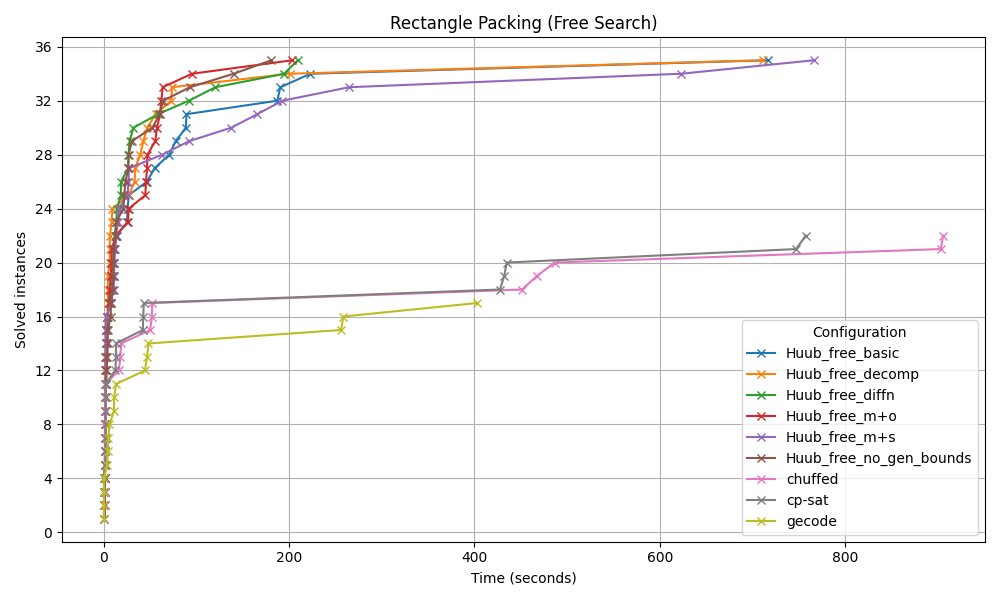
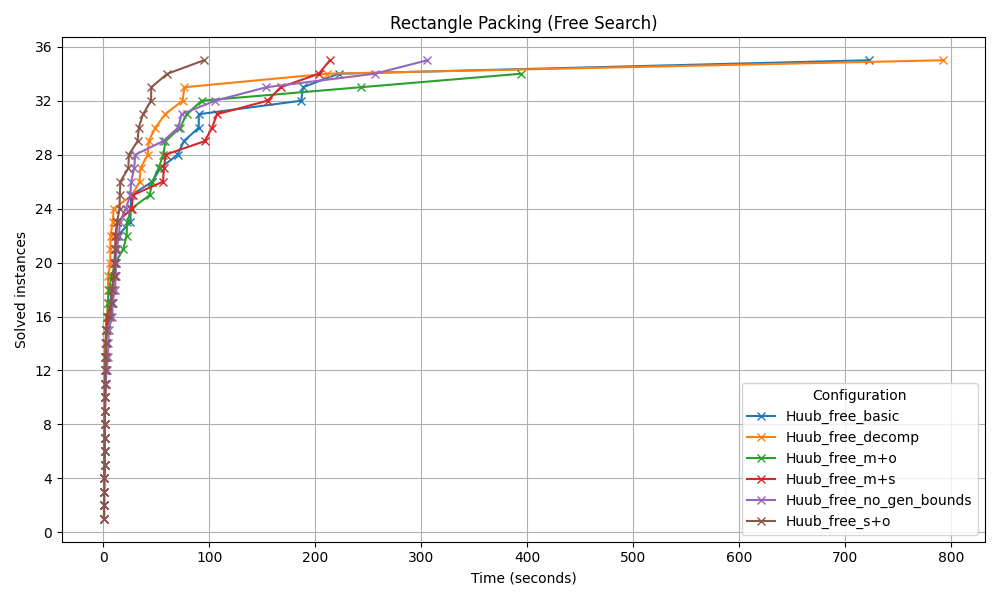
commented configs

diff --git a/run_benchmarks_filter.py b/run_benchmarks_filter.py
@@ -12,27 +12,27 @@ schedule(
     output_dir=pathlib.Path("./results_optimized_new/results_filter"),
     timeout=timedelta(minutes=20),
     configurations=[
-        Configuration(name="Huub_user_basic", solver=minizinc.Solver.load(pathlib.Path('./huub_basic/share/minizinc/solvers/huub.msc'))),
-        Configuration(name="Huub_vsids_basic", solver=minizinc.Solver.load(pathlib.Path('./huub_basic/share/minizinc/solvers/huub.msc')), other_flags={"--vsids-only": True, "--restart": "true"}),
-        Configuration(name="Huub_free_basic", solver=minizinc.Solver.load(pathlib.Path('./huub_basic/share/minizinc/solvers/huub.msc')), free_search=True ),
-        Configuration(name="Huub_user_no_gen_bounds", solver=minizinc.Solver.load(pathlib.Path('./huub_no_gen_bounds/share/minizinc/solvers/huub.msc'))),
-        Configuration(name="Huub_vsids_no_gen_bounds", solver=minizinc.Solver.load(pathlib.Path('./huub_no_gen_bounds/share/minizinc/solvers/huub.msc')), other_flags={"--vsids-only": True, "--restart": "true"}),
-        Configuration(name="Huub_free_no_gen_bounds", solver=minizinc.Solver.load(pathlib.Path('./huub_no_gen_bounds/share/minizinc/solvers/huub_no_gen_bounds.msc')), free_search=True ),
+        # Configuration(name="Huub_user_basic", solver=minizinc.Solver.load(pathlib.Path('./huub_basic/share/minizinc/solvers/huub.msc'))),
+        # Configuration(name="Huub_vsids_basic", solver=minizinc.Solver.load(pathlib.Path('./huub_basic/share/minizinc/solvers/huub.msc')), other_flags={"--vsids-only": True, "--restart": "true"}),
+        # Configuration(name="Huub_free_basic", solver=minizinc.Solver.load(pathlib.Path('./huub_basic/share/minizinc/solvers/huub.msc')), free_search=True ),
+        # Configuration(name="Huub_user_no_gen_bounds", solver=minizinc.Solver.load(pathlib.Path('./huub_no_gen_bounds/share/minizinc/solvers/huub.msc'))),
+        # Configuration(name="Huub_vsids_no_gen_bounds", solver=minizinc.Solver.load(pathlib.Path('./huub_no_gen_bounds/share/minizinc/solvers/huub.msc')), other_flags={"--vsids-only": True, "--restart": "true"}),
+        # Configuration(name="Huub_free_no_gen_bounds", solver=minizinc.Solver.load(pathlib.Path('./huub_no_gen_bounds/share/minizinc/solvers/huub_no_gen_bounds.msc')), free_search=True ),
         Configuration(name="Huub_user_m+s", solver=minizinc.Solver.load(pathlib.Path('./huub_m+s/share/minizinc/solvers/huub.msc'))),
         Configuration(name="Huub_vsids_m+s", solver=minizinc.Solver.load(pathlib.Path('./huub_m+s/share/minizinc/solvers/huub.msc')), other_flags={"--vsids-only": True, "--restart": "true"}),
         Configuration(name="Huub_free_m+s", solver=minizinc.Solver.load(pathlib.Path('./huub_m+s/share/minizinc/solvers/huub.msc')), free_search=True ),
-        Configuration(name="Huub_user_m+o", solver=minizinc.Solver.load(pathlib.Path('./huub_m+o/share/minizinc/solvers/huub.msc'))),
-        Configuration(name="Huub_vsids_m+o", solver=minizinc.Solver.load(pathlib.Path('./huub_m+o/share/minizinc/solvers/huub.msc')), other_flags={"--vsids-only": True, "--restart": "true"}),
-        Configuration(name="Huub_free_m+o", solver=minizinc.Solver.load(pathlib.Path('./huub_m+o/share/minizinc/solvers/huub.msc')), free_search=True ),
-        Configuration(name="Huub_user_s+o", solver=minizinc.Solver.load(pathlib.Path('./huub_s+o/share/minizinc/solvers/huub.msc'))),
-        Configuration(name="Huub_vsids_s+o", solver=minizinc.Solver.load(pathlib.Path('./huub_s+o/share/minizinc/solvers/huub.msc')), other_flags={"--vsids-only": True, "--restart": "true"}),
-        Configuration(name="Huub_free_s+o", solver=minizinc.Solver.load(pathlib.Path('./huub_s+o/share/minizinc/solvers/huub.msc')), free_search=True ),
-        Configuration(name="Huub_user_basic", solver=minizinc.Solver.load(pathlib.Path('./huub_basic/share/minizinc/solvers/huub.msc'))),
-        Configuration(name="Huub_vsids_basic", solver=minizinc.Solver.load(pathlib.Path('./huub_basic/share/minizinc/solvers/huub.msc')), other_flags={"--vsids-only": True, "--restart": "true"}),
-        Configuration(name="Huub_free_basic", solver=minizinc.Solver.load(pathlib.Path('./huub_basic/share/minizinc/solvers/huub.msc')), free_search=True),
-        Configuration(name="Huub_user_decomp", solver=minizinc.Solver.load(pathlib.Path('./huub_decomp/share/minizinc/solvers/huub.msc'))),
-        Configuration(name="Huub_vsids_decomp", solver=minizinc.Solver.load(pathlib.Path('./huub_decomp/share/minizinc/solvers/huub.msc')), other_flags={"--vsids-only": True, "--restart": "true"} ),
-        Configuration(name="Huub_free_decomp", solver=minizinc.Solver.load(pathlib.Path('./huub_decomp/share/minizinc/solvers/huub.msc')), free_search=True ),
+        # Configuration(name="Huub_user_m+o", solver=minizinc.Solver.load(pathlib.Path('./huub_m+o/share/minizinc/solvers/huub.msc'))),
+        # Configuration(name="Huub_vsids_m+o", solver=minizinc.Solver.load(pathlib.Path('./huub_m+o/share/minizinc/solvers/huub.msc')), other_flags={"--vsids-only": True, "--restart": "true"}),
+        # Configuration(name="Huub_free_m+o", solver=minizinc.Solver.load(pathlib.Path('./huub_m+o/share/minizinc/solvers/huub.msc')), free_search=True ),
+        # Configuration(name="Huub_user_s+o", solver=minizinc.Solver.load(pathlib.Path('./huub_s+o/share/minizinc/solvers/huub.msc'))),
+        # Configuration(name="Huub_vsids_s+o", solver=minizinc.Solver.load(pathlib.Path('./huub_s+o/share/minizinc/solvers/huub.msc')), other_flags={"--vsids-only": True, "--restart": "true"}),
+        # Configuration(name="Huub_free_s+o", solver=minizinc.Solver.load(pathlib.Path('./huub_s+o/share/minizinc/solvers/huub.msc')), free_search=True ),
+        # Configuration(name="Huub_user_basic", solver=minizinc.Solver.load(pathlib.Path('./huub_basic/share/minizinc/solvers/huub.msc'))),
+        # Configuration(name="Huub_vsids_basic", solver=minizinc.Solver.load(pathlib.Path('./huub_basic/share/minizinc/solvers/huub.msc')), other_flags={"--vsids-only": True, "--restart": "true"}),
+        # Configuration(name="Huub_free_basic", solver=minizinc.Solver.load(pathlib.Path('./huub_basic/share/minizinc/solvers/huub.msc')), free_search=True),
+        # Configuration(name="Huub_user_decomp", solver=minizinc.Solver.load(pathlib.Path('./huub_decomp/share/minizinc/solvers/huub.msc'))),
+        # Configuration(name="Huub_vsids_decomp", solver=minizinc.Solver.load(pathlib.Path('./huub_decomp/share/minizinc/solvers/huub.msc')), other_flags={"--vsids-only": True, "--restart": "true"} ),
+        # Configuration(name="Huub_free_decomp", solver=minizinc.Solver.load(pathlib.Path('./huub_decomp/share/minizinc/solvers/huub.msc')), free_search=True ),
     ],
     nodelist=["critical001"],
     #partition=["comp"],

diff --git a/run_benchmarks_rect.py b/run_benchmarks_rect.py
@@ -12,27 +12,27 @@ schedule(
     output_dir=pathlib.Path("./results_optimized_new/results_rect"),
     timeout=timedelta(minutes=20),
     configurations=[
-        Configuration(name="Huub_user_basic", solver=minizinc.Solver.load(pathlib.Path('./huub_basic/share/minizinc/solvers/huub.msc'))),
-        Configuration(name="Huub_vsids_basic", solver=minizinc.Solver.load(pathlib.Path('./huub_basic/share/minizinc/solvers/huub.msc')), other_flags={"--vsids-only": True, "--restart": "true"}),
-        Configuration(name="Huub_free_basic", solver=minizinc.Solver.load(pathlib.Path('./huub_basic/share/minizinc/solvers/huub.msc')), free_search=True ),
-        Configuration(name="Huub_user_no_gen_bounds", solver=minizinc.Solver.load(pathlib.Path('./huub_no_gen_bounds/share/minizinc/solvers/huub.msc'))),
-        Configuration(name="Huub_vsids_no_gen_bounds", solver=minizinc.Solver.load(pathlib.Path('./huub_no_gen_bounds/share/minizinc/solvers/huub.msc')), other_flags={"--vsids-only": True, "--restart": "true"}),
-        Configuration(name="Huub_free_no_gen_bounds", solver=minizinc.Solver.load(pathlib.Path('./huub_no_gen_bounds/share/minizinc/solvers/huub_no_gen_bounds.msc')), free_search=True ),
+        # Configuration(name="Huub_user_basic", solver=minizinc.Solver.load(pathlib.Path('./huub_basic/share/minizinc/solvers/huub.msc'))),
+        # Configuration(name="Huub_vsids_basic", solver=minizinc.Solver.load(pathlib.Path('./huub_basic/share/minizinc/solvers/huub.msc')), other_flags={"--vsids-only": True, "--restart": "true"}),
+        # Configuration(name="Huub_free_basic", solver=minizinc.Solver.load(pathlib.Path('./huub_basic/share/minizinc/solvers/huub.msc')), free_search=True ),
+        # Configuration(name="Huub_user_no_gen_bounds", solver=minizinc.Solver.load(pathlib.Path('./huub_no_gen_bounds/share/minizinc/solvers/huub.msc'))),
+        # Configuration(name="Huub_vsids_no_gen_bounds", solver=minizinc.Solver.load(pathlib.Path('./huub_no_gen_bounds/share/minizinc/solvers/huub.msc')), other_flags={"--vsids-only": True, "--restart": "true"}),
+        # Configuration(name="Huub_free_no_gen_bounds", solver=minizinc.Solver.load(pathlib.Path('./huub_no_gen_bounds/share/minizinc/solvers/huub_no_gen_bounds.msc')), free_search=True ),
         Configuration(name="Huub_user_m+s", solver=minizinc.Solver.load(pathlib.Path('./huub_m+s/share/minizinc/solvers/huub.msc'))),
         Configuration(name="Huub_vsids_m+s", solver=minizinc.Solver.load(pathlib.Path('./huub_m+s/share/minizinc/solvers/huub.msc')), other_flags={"--vsids-only": True, "--restart": "true"}),
         Configuration(name="Huub_free_m+s", solver=minizinc.Solver.load(pathlib.Path('./huub_m+s/share/minizinc/solvers/huub.msc')), free_search=True ),
-        Configuration(name="Huub_user_m+o", solver=minizinc.Solver.load(pathlib.Path('./huub_m+o/share/minizinc/solvers/huub.msc'))),
-        Configuration(name="Huub_vsids_m+o", solver=minizinc.Solver.load(pathlib.Path('./huub_m+o/share/minizinc/solvers/huub.msc')), other_flags={"--vsids-only": True, "--restart": "true"}),
-        Configuration(name="Huub_free_m+o", solver=minizinc.Solver.load(pathlib.Path('./huub_m+o/share/minizinc/solvers/huub.msc')), free_search=True ),
-        Configuration(name="Huub_user_s+o", solver=minizinc.Solver.load(pathlib.Path('./huub_s+o/share/minizinc/solvers/huub.msc'))),
-        Configuration(name="Huub_vsids_s+o", solver=minizinc.Solver.load(pathlib.Path('./huub_s+o/share/minizinc/solvers/huub.msc')), other_flags={"--vsids-only": True, "--restart": "true"}),
-        Configuration(name="Huub_free_s+o", solver=minizinc.Solver.load(pathlib.Path('./huub_s+o/share/minizinc/solvers/huub.msc')), free_search=True ),
-        Configuration(name="Huub_user_basic", solver=minizinc.Solver.load(pathlib.Path('./huub_basic/share/minizinc/solvers/huub.msc'))),
-        Configuration(name="Huub_vsids_basic", solver=minizinc.Solver.load(pathlib.Path('./huub_basic/share/minizinc/solvers/huub.msc')), other_flags={"--vsids-only": True, "--restart": "true"}),
-        Configuration(name="Huub_free_basic", solver=minizinc.Solver.load(pathlib.Path('./huub_basic/share/minizinc/solvers/huub.msc')), free_search=True),
-        Configuration(name="Huub_user_decomp", solver=minizinc.Solver.load(pathlib.Path('./huub_decomp/share/minizinc/solvers/huub.msc'))),
-        Configuration(name="Huub_vsids_decomp", solver=minizinc.Solver.load(pathlib.Path('./huub_decomp/share/minizinc/solvers/huub.msc')), other_flags={"--vsids-only": True, "--restart": "true"} ),
-        Configuration(name="Huub_free_decomp", solver=minizinc.Solver.load(pathlib.Path('./huub_decomp/share/minizinc/solvers/huub.msc')), free_search=True ),
+        # Configuration(name="Huub_user_m+o", solver=minizinc.Solver.load(pathlib.Path('./huub_m+o/share/minizinc/solvers/huub.msc'))),
+        # Configuration(name="Huub_vsids_m+o", solver=minizinc.Solver.load(pathlib.Path('./huub_m+o/share/minizinc/solvers/huub.msc')), other_flags={"--vsids-only": True, "--restart": "true"}),
+        # Configuration(name="Huub_free_m+o", solver=minizinc.Solver.load(pathlib.Path('./huub_m+o/share/minizinc/solvers/huub.msc')), free_search=True ),
+        # Configuration(name="Huub_user_s+o", solver=minizinc.Solver.load(pathlib.Path('./huub_s+o/share/minizinc/solvers/huub.msc'))),
+        # Configuration(name="Huub_vsids_s+o", solver=minizinc.Solver.load(pathlib.Path('./huub_s+o/share/minizinc/solvers/huub.msc')), other_flags={"--vsids-only": True, "--restart": "true"}),
+        # Configuration(name="Huub_free_s+o", solver=minizinc.Solver.load(pathlib.Path('./huub_s+o/share/minizinc/solvers/huub.msc')), free_search=True ),
+        # Configuration(name="Huub_user_basic", solver=minizinc.Solver.load(pathlib.Path('./huub_basic/share/minizinc/solvers/huub.msc'))),
+        # Configuration(name="Huub_vsids_basic", solver=minizinc.Solver.load(pathlib.Path('./huub_basic/share/minizinc/solvers/huub.msc')), other_flags={"--vsids-only": True, "--restart": "true"}),
+        # Configuration(name="Huub_free_basic", solver=minizinc.Solver.load(pathlib.Path('./huub_basic/share/minizinc/solvers/huub.msc')), free_search=True),
+        # Configuration(name="Huub_user_decomp", solver=minizinc.Solver.load(pathlib.Path('./huub_decomp/share/minizinc/solvers/huub.msc'))),
+        # Configuration(name="Huub_vsids_decomp", solver=minizinc.Solver.load(pathlib.Path('./huub_decomp/share/minizinc/solvers/huub.msc')), other_flags={"--vsids-only": True, "--restart": "true"} ),
+        # Configuration(name="Huub_free_decomp", solver=minizinc.Solver.load(pathlib.Path('./huub_decomp/share/minizinc/solvers/huub.msc')), free_search=True ),
     ],
     nodelist=["critical001"],
     #partition=["comp"],

diff --git a/run_benchmarks_prod_shelf.py b/run_benchmarks_prod_shelf.py
@@ -1,4 +1,4 @@
-# 1. Create an instance list: mzn-bench collect-instances minizinc-benchmarks > instances.csv
+#  1. Create an instance list: mzn-bench collect-instances minizinc-benchmarks > instances.csv
 # 2. Run the script: python3 run_benchmark.py
 # 3. Collect the statistics: mzn-bench collect-statistics results result.csv
 # 4. Summarize and report status: mzn-bench report-status --avg solveTime result.csv
@@ -12,20 +12,20 @@ schedule(
     output_dir=pathlib.Path("./results_optimized_new/results_prod_new"),
     timeout=timedelta(minutes=20),
     configurations=[
-        Configuration(name="Huub_vsids_basic", solver=minizinc.Solver.load(pathlib.Path('./huub_basic/share/minizinc/solvers/huub.msc')), other_flags={"--vsids-only": True, "--restart": "true"}),
-        Configuration(name="Huub_free_basic", solver=minizinc.Solver.load(pathlib.Path('./huub_basic/share/minizinc/solvers/huub.msc')), free_search=True ),
-        Configuration(name="Huub_vsids_no_gen_bounds", solver=minizinc.Solver.load(pathlib.Path('./huub_no_gen_bounds/share/minizinc/solvers/huub.msc')), other_flags={"--vsids-only": True, "--restart": "true"}),
-        Configuration(name="Huub_free_no_gen_bounds", solver=minizinc.Solver.load(pathlib.Path('./huub_no_gen_bounds/share/minizinc/solvers/huub_no_gen_bounds.msc')), free_search=True ),
+        # Configuration(name="Huub_vsids_basic", solver=minizinc.Solver.load(pathlib.Path('./huub_basic/share/minizinc/solvers/huub.msc')), other_flags={"--vsids-only": True, "--restart": "true"}),
+        # Configuration(name="Huub_free_basic", solver=minizinc.Solver.load(pathlib.Path('./huub_basic/share/minizinc/solvers/huub.msc')), free_search=True ),
+        # Configuration(name="Huub_vsids_no_gen_bounds", solver=minizinc.Solver.load(pathlib.Path('./huub_no_gen_bounds/share/minizinc/solvers/huub.msc')), other_flags={"--vsids-only": True, "--restart": "true"}),
+        # Configuration(name="Huub_free_no_gen_bounds", solver=minizinc.Solver.load(pathlib.Path('./huub_no_gen_bounds/share/minizinc/solvers/huub_no_gen_bounds.msc')), free_search=True ),
         Configuration(name="Huub_vsids_m+s", solver=minizinc.Solver.load(pathlib.Path('./huub_m+s/share/minizinc/solvers/huub.msc')), other_flags={"--vsids-only": True, "--restart": "true"}),
         Configuration(name="Huub_free_m+s", solver=minizinc.Solver.load(pathlib.Path('./huub_m+s/share/minizinc/solvers/huub.msc')), free_search=True ),
-        Configuration(name="Huub_vsids_m+o", solver=minizinc.Solver.load(pathlib.Path('./huub_m+o/share/minizinc/solvers/huub.msc')), other_flags={"--vsids-only": True, "--restart": "true"}),
-        Configuration(name="Huub_free_m+o", solver=minizinc.Solver.load(pathlib.Path('./huub_m+o/share/minizinc/solvers/huub.msc')), free_search=True ),
-        Configuration(name="Huub_vsids_s+o", solver=minizinc.Solver.load(pathlib.Path('./huub_s+o/share/minizinc/solvers/huub.msc')), other_flags={"--vsids-only": True, "--restart": "true"}),
-        Configuration(name="Huub_free_s+o", solver=minizinc.Solver.load(pathlib.Path('./huub_s+o/share/minizinc/solvers/huub.msc')), free_search=True ),
-        Configuration(name="Huub_vsids_basic", solver=minizinc.Solver.load(pathlib.Path('./huub_basic/share/minizinc/solvers/huub.msc')), other_flags={"--vsids-only": True, "--restart": "true"}),
-        Configuration(name="Huub_free_basic", solver=minizinc.Solver.load(pathlib.Path('./huub_basic/share/minizinc/solvers/huub.msc')), free_search=True),
-        Configuration(name="Huub_vsids_decomp", solver=minizinc.Solver.load(pathlib.Path('./huub_decomp/share/minizinc/solvers/huub.msc')), other_flags={"--vsids-only": True, "--restart": "true"} ),
-        Configuration(name="Huub_free_decomp", solver=minizinc.Solver.load(pathlib.Path('./huub_decomp/share/minizinc/solvers/huub.msc')), free_search=True ),
+        # Configuration(name="Huub_vsids_m+o", solver=minizinc.Solver.load(pathlib.Path('./huub_m+o/share/minizinc/solvers/huub.msc')), other_flags={"--vsids-only": True, "--restart": "true"}),
+        # Configuration(name="Huub_free_m+o", solver=minizinc.Solver.load(pathlib.Path('./huub_m+o/share/minizinc/solvers/huub.msc')), free_search=True ),
+        # Configuration(name="Huub_vsids_s+o", solver=minizinc.Solver.load(pathlib.Path('./huub_s+o/share/minizinc/solvers/huub.msc')), other_flags={"--vsids-only": True, "--restart": "true"}),
+        # Configuration(name="Huub_free_s+o", solver=minizinc.Solver.load(pathlib.Path('./huub_s+o/share/minizinc/solvers/huub.msc')), free_search=True ),
+        # Configuration(name="Huub_vsids_basic", solver=minizinc.Solver.load(pathlib.Path('./huub_basic/share/minizinc/solvers/huub.msc')), other_flags={"--vsids-only": True, "--restart": "true"}),
+        # Configuration(name="Huub_free_basic", solver=minizinc.Solver.load(pathlib.Path('./huub_basic/share/minizinc/solvers/huub.msc')), free_search=True),
+        # Configuration(name="Huub_vsids_decomp", solver=minizinc.Solver.load(pathlib.Path('./huub_decomp/share/minizinc/solvers/huub.msc')), other_flags={"--vsids-only": True, "--restart": "true"} ),
+        # Configuration(name="Huub_free_decomp", solver=minizinc.Solver.load(pathlib.Path('./huub_decomp/share/minizinc/solvers/huub.msc')), free_search=True ),
     ],
     nodelist=["critical001"],
     #partition=["comp"],

diff --git a/run_benchmarks_container.py b/run_benchmarks_container.py
@@ -12,20 +12,20 @@ schedule(
     output_dir=pathlib.Path("./results_optimized_new/results_container"),
     timeout=timedelta(minutes=20),
     configurations=[
-        Configuration(name="Huub_vsids_basic", solver=minizinc.Solver.load(pathlib.Path('./huub_basic/share/minizinc/solvers/huub.msc')), other_flags={"--vsids-only": True, "--restart": "true"}),
-        Configuration(name="Huub_free_basic", solver=minizinc.Solver.load(pathlib.Path('./huub_basic/share/minizinc/solvers/huub.msc')), free_search=True ),
-        Configuration(name="Huub_vsids_no_gen_bounds", solver=minizinc.Solver.load(pathlib.Path('./huub_no_gen_bounds/share/minizinc/solvers/huub.msc')), other_flags={"--vsids-only": True, "--restart": "true"}),
-        Configuration(name="Huub_free_no_gen_bounds", solver=minizinc.Solver.load(pathlib.Path('./huub_no_gen_bounds/share/minizinc/solvers/huub_no_gen_bounds.msc')), free_search=True ),
+        # Configuration(name="Huub_vsids_basic", solver=minizinc.Solver.load(pathlib.Path('./huub_basic/share/minizinc/solvers/huub.msc')), other_flags={"--vsids-only": True, "--restart": "true"}),
+        # Configuration(name="Huub_free_basic", solver=minizinc.Solver.load(pathlib.Path('./huub_basic/share/minizinc/solvers/huub.msc')), free_search=True ),
+        # Configuration(name="Huub_vsids_no_gen_bounds", solver=minizinc.Solver.load(pathlib.Path('./huub_no_gen_bounds/share/minizinc/solvers/huub.msc')), other_flags={"--vsids-only": True, "--restart": "true"}),
+        # Configuration(name="Huub_free_no_gen_bounds", solver=minizinc.Solver.load(pathlib.Path('./huub_no_gen_bounds/share/minizinc/solvers/huub_no_gen_bounds.msc')), free_search=True ),
         Configuration(name="Huub_vsids_m+s", solver=minizinc.Solver.load(pathlib.Path('./huub_m+s/share/minizinc/solvers/huub.msc')), other_flags={"--vsids-only": True, "--restart": "true"}),
         Configuration(name="Huub_free_m+s", solver=minizinc.Solver.load(pathlib.Path('./huub_m+s/share/minizinc/solvers/huub.msc')), free_search=True ),
-        Configuration(name="Huub_vsids_m+o", solver=minizinc.Solver.load(pathlib.Path('./huub_m+o/share/minizinc/solvers/huub.msc')), other_flags={"--vsids-only": True, "--restart": "true"}),
-        Configuration(name="Huub_free_m+o", solver=minizinc.Solver.load(pathlib.Path('./huub_m+o/share/minizinc/solvers/huub.msc')), free_search=True ),
-        Configuration(name="Huub_vsids_s+o", solver=minizinc.Solver.load(pathlib.Path('./huub_s+o/share/minizinc/solvers/huub.msc')), other_flags={"--vsids-only": True, "--restart": "true"}),
-        Configuration(name="Huub_free_s+o", solver=minizinc.Solver.load(pathlib.Path('./huub_s+o/share/minizinc/solvers/huub.msc')), free_search=True ),
-        Configuration(name="Huub_vsids_basic", solver=minizinc.Solver.load(pathlib.Path('./huub_basic/share/minizinc/solvers/huub.msc')), other_flags={"--vsids-only": True, "--restart": "true"}),
-        Configuration(name="Huub_free_basic", solver=minizinc.Solver.load(pathlib.Path('./huub_basic/share/minizinc/solvers/huub.msc')), free_search=True),
-        Configuration(name="Huub_vsids_decomp", solver=minizinc.Solver.load(pathlib.Path('./huub_decomp/share/minizinc/solvers/huub.msc')), other_flags={"--vsids-only": True, "--restart": "true"} ),
-        Configuration(name="Huub_free_decomp", solver=minizinc.Solver.load(pathlib.Path('./huub_decomp/share/minizinc/solvers/huub.msc')), free_search=True ),
+        # Configuration(name="Huub_vsids_m+o", solver=minizinc.Solver.load(pathlib.Path('./huub_m+o/share/minizinc/solvers/huub.msc')), other_flags={"--vsids-only": True, "--restart": "true"}),
+        # Configuration(name="Huub_free_m+o", solver=minizinc.Solver.load(pathlib.Path('./huub_m+o/share/minizinc/solvers/huub.msc')), free_search=True ),
+        # Configuration(name="Huub_vsids_s+o", solver=minizinc.Solver.load(pathlib.Path('./huub_s+o/share/minizinc/solvers/huub.msc')), other_flags={"--vsids-only": True, "--restart": "true"}),
+        # Configuration(name="Huub_free_s+o", solver=minizinc.Solver.load(pathlib.Path('./huub_s+o/share/minizinc/solvers/huub.msc')), free_search=True ),
+        # Configuration(name="Huub_vsids_basic", solver=minizinc.Solver.load(pathlib.Path('./huub_basic/share/minizinc/solvers/huub.msc')), other_flags={"--vsids-only": True, "--restart": "true"}),
+        # Configuration(name="Huub_free_basic", solver=minizinc.Solver.load(pathlib.Path('./huub_basic/share/minizinc/solvers/huub.msc')), free_search=True),
+        # Configuration(name="Huub_vsids_decomp", solver=minizinc.Solver.load(pathlib.Path('./huub_decomp/share/minizinc/solvers/huub.msc')), other_flags={"--vsids-only": True, "--restart": "true"} ),
+        # Configuration(name="Huub_free_decomp", solver=minizinc.Solver.load(pathlib.Path('./huub_decomp/share/minizinc/solvers/huub.msc')), free_search=True ),
     ],
     nodelist=["critical001"],
     #partition=["comp"],

diff --git a/plots/plot_container.py b/plots/plot_container.py
@@ -4,56 +4,12 @@ import matplotlib
 import matplotlib.pyplot as plt
 import numpy as np
 
-# matplotlib.use('pgf')
-
-# Provided CSV data
-# data = "results_optimized/results_container_user.csv"
-# #data = "results_optimized/results_container_free.csv"
-#
-# # Read CSV into DataFrame
-# df = pd.read_csv(data)
-#
-#
-# # Filter for only rows with OPTIMAL_SOLUTION
-# df_opt = df[df["status"] == "SATISFIED"]
-#
-# # Create cactus plot comparing configurations
-# plt.figure(figsize=(10, 6))
-#
-# # Clean the data_file column to just the filename (e.g., 'cl01')
-# df_opt["data_file"] = df_opt["data_file"].apply(
-#     lambda x: x.split("/")[-1].split(".")[0]
-# )
-#
-#
-# # Sort by the numeric part of the data_file name
-# df_opt["file_num"] = df_opt["data_file"].str.extract(r'cl(\d+)').astype(int)
-# df_opt = df_opt.sort_values("file_num")
-# df_opt = df_opt.drop(columns="file_num")
-#
-# for config, group in df_opt[df_opt["configuration"].str.match(r"Huub.*|chuffed|gecode|cp-sat")].groupby("configuration"):
-#     df_subset = df_opt[df_opt["configuration"] == config]
-#     plt.plot(df_subset["data_file"], df_subset["objective"], label=config)
-#
-# # Formatting
-# plt.xlabel("Data File")
-# plt.ylabel("Objective")
-# plt.title("Container Loading (Free)")
-# plt.xticks(rotation=45)
-# plt.legend()
-# plt.tight_layout()
-# plt.grid(True)
-#
-# # Show the plot
-# #plt.savefig("container.pgf", format='pgf')
-# # plt.savefig("container.png")
-
 
 import pandas as pd
 
 # Read CSV
 # Read CSV
-df = pd.read_csv("results_optimized/results_container.csv")
+df = pd.read_csv("results_optimized_new/results_container.csv")
 
 # Filter for optimal solutions
 df_opt = df[df["status"] == "SATISFIED"].copy()
@@ -124,7 +80,7 @@ df_opt["data_file"] = df_opt["data_file"].apply(lambda x: x.split("/")[-1].split
 
 # Filter only relevant configurations
 df_filtered = df_opt[
-    df_opt["configuration"].str.startswith("Huub_user") |
+    df_opt["configuration"].str.startswith("Huub_vsids") |
     df_opt["configuration"].str.contains(r"(chuffed|gecode|cp[-_]?sat)", flags=re.IGNORECASE, regex=True)
 ]
 

diff --git a/plots/plot_filter.py b/plots/plot_filter.py
@@ -10,7 +10,7 @@ import numpy as np
 # Provided CSV data
 # data = "results_filter.csv"
 # data = "results_optimized/results_filter_free.csv"
-data = "results_optimized/results_filter.csv"
+data = "results_optimized_new/results_filter.csv"
 
 # Read CSV into DataFrame
 df = pd.read_csv(data)
@@ -46,7 +46,6 @@ plt.savefig("images/cactus_filter_user_optimized.png")
 # Provided CSV data
 # data = "results_filter.csv"
 # data = "results_optimized/results_filter_free.csv"
-data = "results_optimized/results_filter.csv"
 
 # Read CSV into DataFrame
 df = pd.read_csv(data)
@@ -75,3 +74,31 @@ plt.grid(True)
 plt.tight_layout()
 #plt.savefig("cactus_filter.pgf", format='pgf')
 plt.savefig("images/cactus_filter_free_optimized.png")
+
+# Read CSV into DataFrame
+df = pd.read_csv(data)
+
+
+# Filter for only rows with OPTIMAL_SOLUTION
+df_opt = df[(df["status"] == "OPTIMAL_SOLUTION")]
+# df_opt = df[(df["status"] == "SATISFIED") | (df["status"] == "ALL_SOLUTIONS")]
+# df_opt = df[(df["status"] == "OPTIMAL_SOLUTION") | (df["status"] == "SATISFIED")]
+
+# Create cactus plot comparing configurations
+plt.figure(figsize=(10, 6))
+
+for config, group in df_opt[df_opt["configuration"].str.match(r"Huub_vsids.*|chuffed|gecode|cp-sat")].groupby("configuration"):
+    times = np.sort(group["time"].astype(float))
+    y_vals = np.arange(1, len(times) + 1)
+    # plt.step(times, y_vals, where='post', marker='x', label=config)
+    plt.plot(times, y_vals, marker='x', linestyle='-', label=config)
+
+plt.xlabel("Time (seconds)")
+plt.ylabel("Solved instances")
+plt.title("Filters (Free Search)")
+plt.legend(title="Configuration")
+plt.gca().yaxis.set_major_locator(MaxNLocator(integer=True))  # Force integer ticks
+plt.grid(True)
+plt.tight_layout()
+#plt.savefig("cactus_filter.pgf", format='pgf')
+plt.savefig("images/cactus_filter_vsids_optimized.png")

diff --git a/plots/plot_rect.py b/plots/plot_rect.py
@@ -8,7 +8,7 @@ import numpy as np
 #matplotlib.use('pgf')
 # Provided CSV data
 # data = "results_optimized/results_rect_free.csv"
-data = "results_optimized/results_rect.csv"
+data = "results_optimized_new/results_rect.csv"
 
 # Read CSV into DataFrame
 df = pd.read_csv(data)
@@ -40,7 +40,6 @@ plt.savefig("images/cactus_rect_free_optimized.png")
 
 # Provided CSV data
 # data = "results_optimized/results_rect_free.csv"
-data = "results_optimized/results_rect.csv"
 
 # Read CSV into DataFrame
 df = pd.read_csv(data)
@@ -69,3 +68,30 @@ plt.grid(True)
 plt.tight_layout()
 #plt.savefig("cactus_rect.pgf")
 plt.savefig("images/cactus_rect_user_optimized.png")
+# Read CSV into DataFrame
+df = pd.read_csv(data)
+
+
+# Filter for only rows with OPTIMAL_SOLUTION
+# df_opt = df[(df["status"] == "OPTIMAL_SOLUTION")]
+df_opt = df[(df["status"] == "SATISFIED") | (df["status"] == "ALL_SOLUTIONS")]
+# df_opt = df[(df["status"] == "OPTIMAL_SOLUTION") | (df["status"] == "SATISFIED")]
+
+# Create cactus plot comparing configurations
+plt.figure(figsize=(10, 6))
+
+for config, group in df_opt[df_opt["configuration"].str.match(r"Huub_vsids.*|chuffed|gecode|cp-sat")].groupby("configuration"):
+    times = np.sort(group["time"].astype(float))
+    y_vals = np.arange(1, len(times) + 1)
+    # plt.step(times, y_vals, where='post', marker='x', label=config)
+    plt.plot(times, y_vals, marker='x', linestyle='-', label=config)
+
+plt.xlabel("Time (seconds)")
+plt.ylabel("Solved instances")
+plt.title("Rectangle Packing (User Search)")
+plt.legend(title="Configuration")
+plt.gca().yaxis.set_major_locator(MaxNLocator(integer=True))  # Force integer ticks
+plt.grid(True)
+plt.tight_layout()
+#plt.savefig("cactus_rect.pgf")
+plt.savefig("images/cactus_rect_vsids_optimized.png")

diff --git a/plots/plot_prod_shelf.py b/plots/plot_prod_shelf.py
@@ -8,7 +8,7 @@ import numpy as np
 # matplotlib.use('pgf')
 
 # Provided CSV data
-data = "results_optimized/results_prod_shelf.csv"
+data = "results_optimized_new/results_prod_shelf.csv"
 # data = "results_optimized/results_prod_shelf_free.csv"
 
 # Read CSV into DataFrame
@@ -23,7 +23,7 @@ df_opt = df[(df["status"] == "OPTIMAL_SOLUTION")]
 # Create cactus plot comparing configurations
 plt.figure(figsize=(10, 6))
 
-for config, group in df_opt[df_opt["configuration"].str.match(r"Huub_user.*|chuffed|gecode|cp-sat")].groupby("configuration"):
+for config, group in df_opt[df_opt["configuration"].str.match(r"Huub_vsids.*|chuffed|gecode|cp-sat")].groupby("configuration"):
     times = np.sort(group["time"].astype(float))
     y_vals = np.arange(1, len(times) + 1)
     # plt.step(times, y_vals, where='post', marker='x', label=config)
@@ -37,9 +37,8 @@ plt.gca().yaxis.set_major_locator(MaxNLocator(integer=True))  # Force integer ti
 plt.grid(True)
 plt.tight_layout()
 # plt.savefig("cactus_prod_shelf.pgf", format='pgf')
-plt.savefig("images/cactus_prod_shelf_user_optimized.png")
+plt.savefig("images/cactus_prod_shelf_vsids_optimized.png")
 
-data = "results_optimized/results_prod_shelf.csv"
 # data = "results_optimized/results_prod_shelf_free.csv"
 
 # Read CSV into DataFrame
